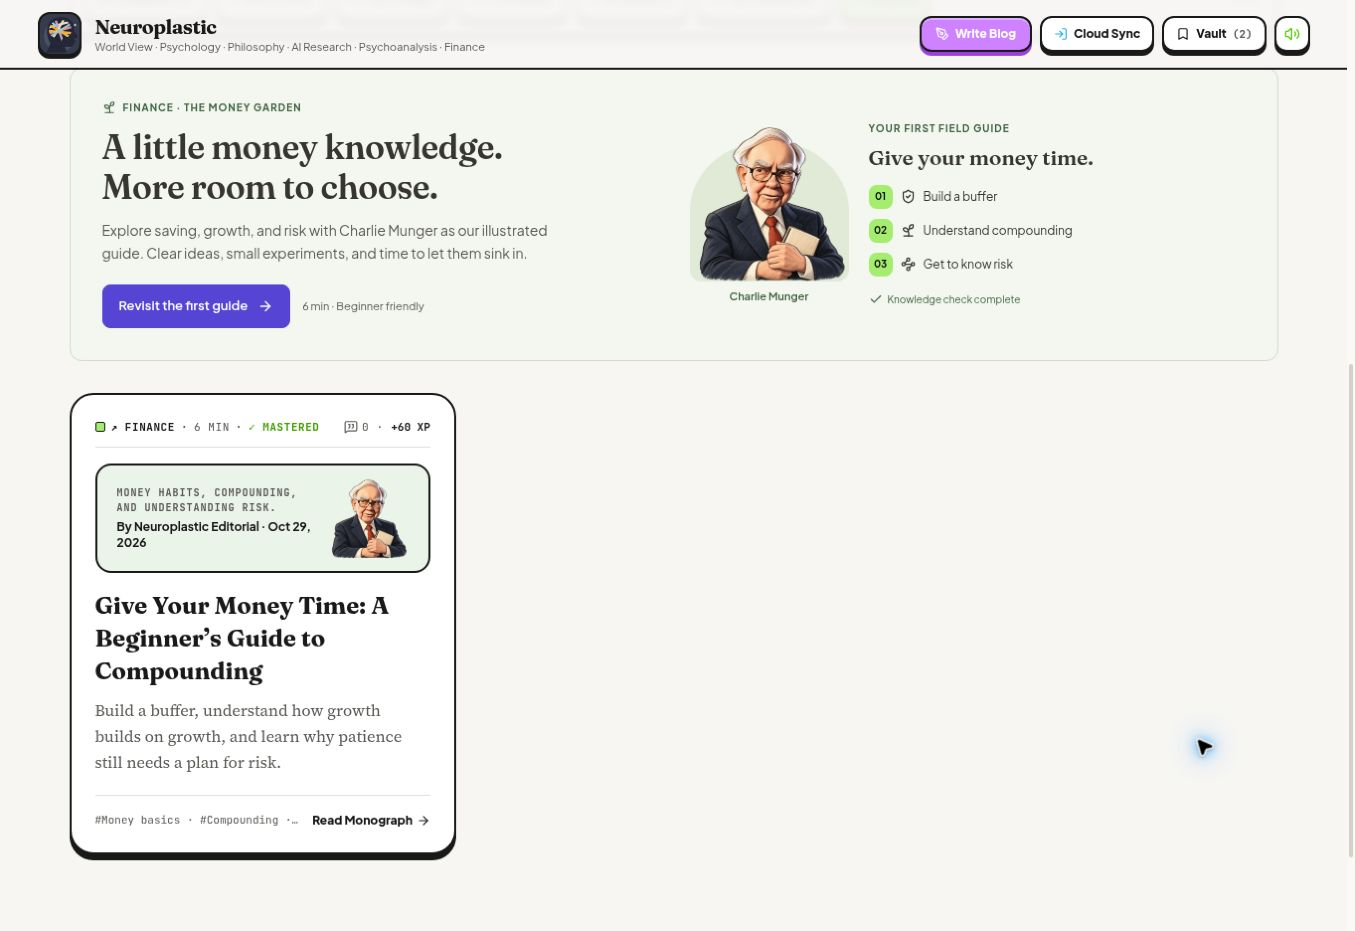
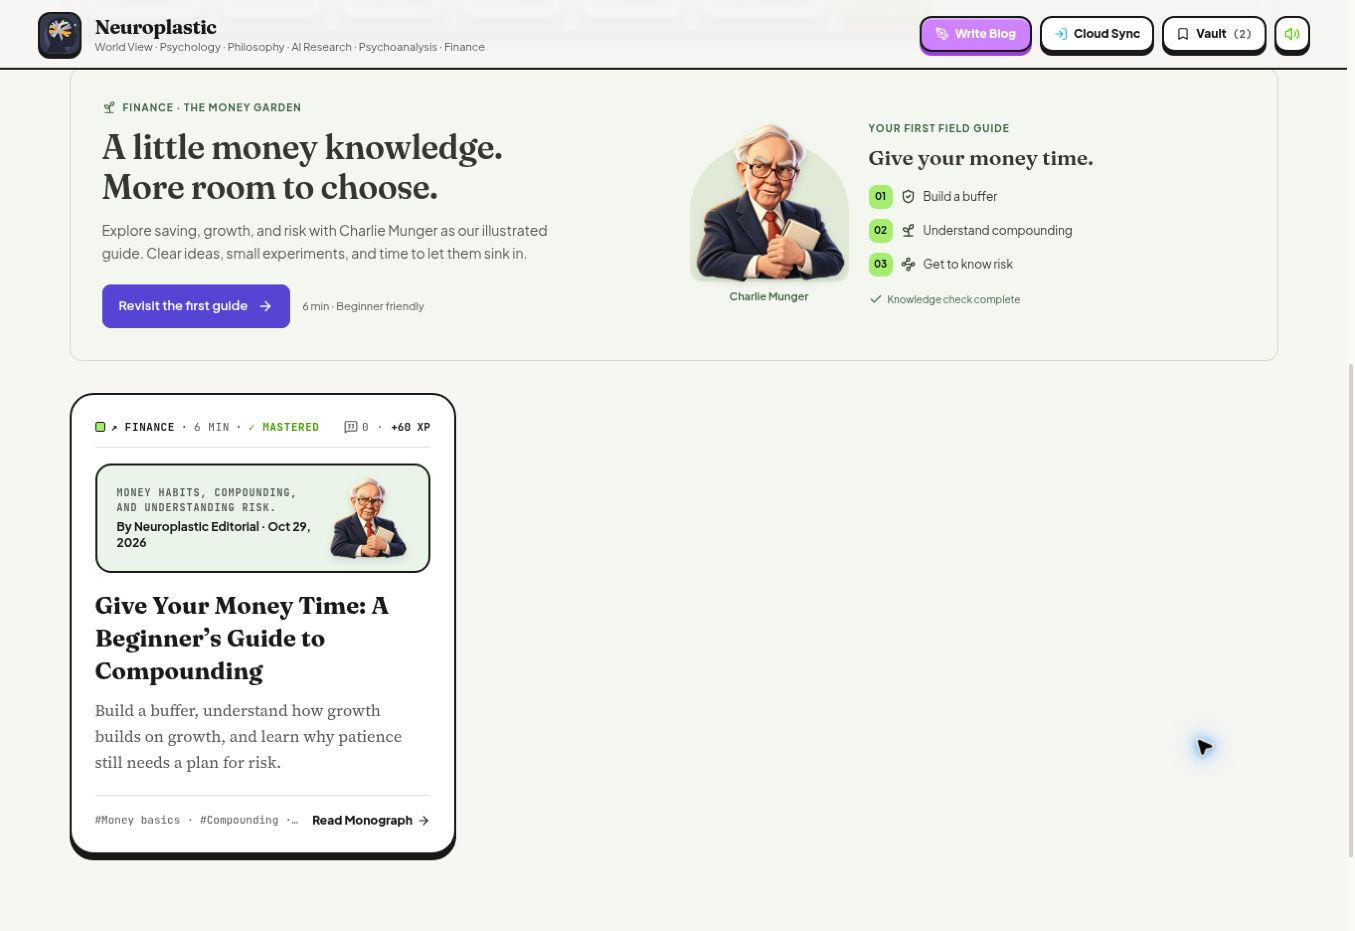
docs: record live 3D mascot review and screenshots

Changed region(s): [[0.4959, 0.1246, 0.6199, 0.3115], [0.248, 0.4984, 0.31, 0.623]]

diff --git a/docs/design/mascots-3d.md b/docs/design/mascots-3d.md
@@ -27,8 +27,9 @@ The original generated PNGs are encoded to WebP quality 86, preserving their dim
 
 ## Verification
 
-- Inspect all eight generated portraits for identity, pose, hands, props, and consistent rendering.
-- Verify all configured asset files exist, are square, and retain transparency.
-- Run TypeScript and the production build, plus the existing utility and rules checks.
-- Verify the deployed site uses the new portrait URLs in the symposium, atlas, article cards, and reader feedback; record a desktop screenshot.
+- All eight generated portraits were inspected for identity, pose, hands, props, and consistent rendering. All configured assets exist in the production build, are square, and retain transparency.
+- TypeScript, all 19 existing utility/Firestore checks, Firestore rules lint, and the GitHub Pages production build passed. Both GitHub Actions build and deployment completed successfully.
+- Live desktop review at 1363px passed with no horizontal overflow. All six subject portraits loaded from the new URLs on the homepage and in the atlas; the reader's Diogenes hint and Archimedes success portraits also loaded correctly.
+- Keyboard selection with Enter passed. A real pointer interaction produced 3.5 degrees of yaw, 1.5 degrees of pitch, and the intended 10px hover depth in the computed CSS transform.
+- The final deployed views are recorded in `mascots-3d-desktop.jpg` and the updated `finance-desktop.jpg`.
 - Phone/tablet viewport rendering and OS-level motion-preference switching remain outside this environment's available browser checks.
